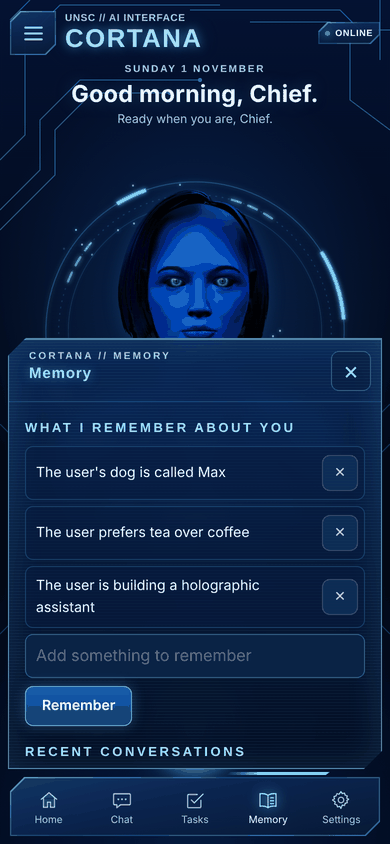
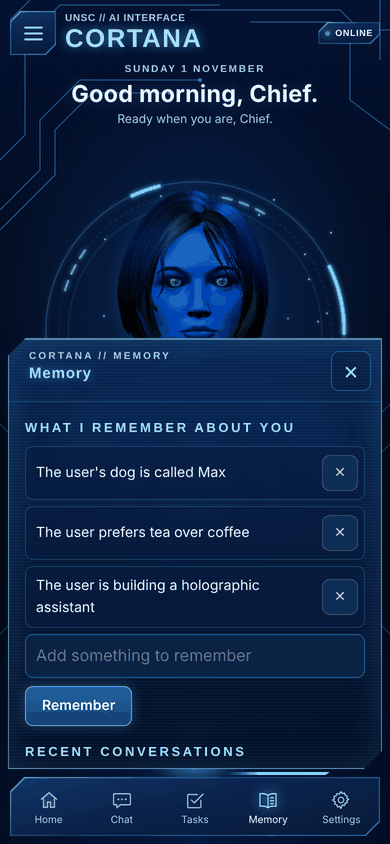
Fix hair rendering: write depth for the cut-out hair material
The GLB marks the hair as blended, which disables depth writes. The app
renders it as an alpha-tested cut-out but left depthWrite off, so hair
cards overdrew each other and the face in GPU compile order (dark
"helmet" hair, strands across the face, different per load). Enable
depthWrite and alphaToCoverage. Re-record README screenshots and GIF.

Claude-Session: https://claude.ai/code/session_01U3iMQwbYck4KdFpvttXMbn

diff --git a/app/avatar.js b/app/avatar.js
@@ -203,7 +203,10 @@ try{
   for(const mat of (Array.isArray(o.material)?o.material:[o.material])){
    mat.color.multiply(new THREE.Color(.36,.72,1));
    mat.emissive.set(0x167cda);mat.emissiveIntensity=.10;
-   if(/hair/i.test(mat.name)){mat.transparent=false;mat.alphaTest=.45;mat.side=THREE.DoubleSide;mat.color.setRGB(.15,.35,.62);}
+   if(/hair/i.test(mat.name)){mat.transparent=false;mat.alphaTest=.45;mat.side=THREE.DoubleSide;mat.color.setRGB(.15,.35,.62);
+    // The GLB marks the hair as blended, which also turns depthWrite off. Rendered as cut-out without depth, hair cards
+    // overdraw each other and the face in whatever order the GPU compiled them: the intermittent 'helmet' hair (D-010).
+    mat.depthWrite=true;mat.blending=THREE.NormalBlending;mat.alphaToCoverage=true;}
    if(/^Eye/.test(mat.name)){mat.color.setRGB(.35,.8,1);mat.emissive.setRGB(.1,.35,.55);mat.emissiveIntensity=.25;mat.roughness=.3;}
    mat.needsUpdate=true;
   }

diff --git a/AGENTS.md b/AGENTS.md
@@ -276,7 +276,7 @@ Don't duplicate content between docs; link instead. Keep README claims true (e.g
 ## 14. Mistakes already made once (don't repeat them)
 
 1. **QR pairing showed "Open Cortana using the QR code".** The cookie was `SameSite=Strict`; browsers drop Strict cookies on navigations that start in another app or site (QR scanners), so the redirect after pairing arrived without it. Fix: `SameSite=Lax`. Python HTTP clients don't enforce SameSite, so test in a real browser. → D-012
-2. **Hair rendered as a solid block until refresh.** A WebP texture failed to decode on first load; three.js silently renders without it. Fix: validate textures after load and retry. → D-010
+2. **Hair rendered as a dark helmet with strands across the face, varying between loads.** The GLB marks the hair as blended, which sets `depthWrite=false`; the app switched it to cut-out (`alphaTest`) but left depth writes off, so hair cards overdrew each other and the face in GPU compile order. Fix: `depthWrite=true` (+ `alphaToCoverage`). A second, rarer cause (a texture failing to decode) is handled by validating textures after load and retrying. → D-010
 3. **"Add" button did nothing.** A hidden `<input type=number min=0.1 step=0.5 value=5>` was invalid (5 isn't on the step grid), so the browser blocked submit silently. Use `step="any"`.
 4. **`ReferenceError` risk:** `const wake` was declared at the bottom of `app.js` but used by `idleLabel()`, called from `stop()`/`setState()`. Declare shared state at the top.
 5. **Hidden inputs showed anyway:** `display:block` CSS overrode the `hidden` attribute.

diff --git a/docs/DECISIONS.md b/docs/DECISIONS.md
@@ -39,9 +39,12 @@ Small models forget it, so fenced code and table rows are diverted anyway. **Cos
 **Why:** Piper reports no mouth shapes; loudness + zero-crossing per 45 ms gives convincing movement with no extra model.
 **Cost:** not phoneme-accurate. The Windows voice keeps its real viseme events.
 
-### D-010: Validate textures after loading the 3D model and retry
-**Why:** a WebP texture occasionally failed to decode on first load, and three.js silently rendered the hair as solid
-geometry. Detecting the missing map and reloading (up to 3 times) fixes it without a refresh.
+### D-010: Hair as depth-writing cut-out, and texture validation with retry
+**Why:** the hair sometimes rendered as a dark helmet with strands across the face until a refresh. The GLB marks the hair
+material as blended, which also disables depth writes; the app renders it as an alpha-tested cut-out but had left
+`depthWrite` off, so the draw order (which depends on GPU shader compile timing) decided which hair card won. Fix:
+`depthWrite = true`, normal blending, `alphaToCoverage` for smooth edges. Separately, a WebP texture can occasionally fail to
+decode and three.js silently renders without it, so textures are validated after load and the model is reloaded (up to 3 times).
 
 ### D-011: SQLite for all local state
 **Why:** standard library, single file, safe with a lock across server threads, survives restarts.

diff --git a/CHANGELOG.md b/CHANGELOG.md
@@ -12,6 +12,7 @@ All notable changes. Dates are UK time.
 - `GET/POST /api/models`; `app/hardware.py`; 5 new tests (37 total).
 
 ### Fixed
+- **Hair rendering** (dark helmet, strands across the face, varying per load): hair now writes depth as a cut-out material.
 - Validation messages (e.g. "too big for this PC") now reach the page instead of a generic "Invalid request".
 
 ## [1.0.0] - 2026-11-01
